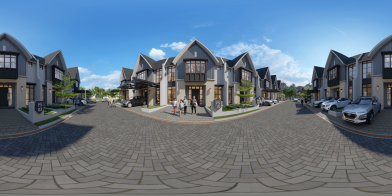
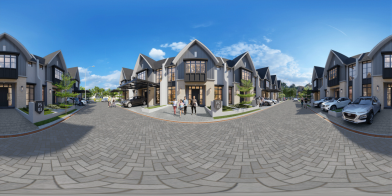
Final

diff --git a/index.htm b/index.htm
@@ -6,21 +6,21 @@
     <meta name="viewport" id="metaViewport" content="user-scalable=no, initial-scale=1, width=device-width, viewport-fit=cover" data-tdv-general-scale="0.5"/>
     <meta name="apple-mobile-web-app-capable" content="yes"/>
     <meta name="apple-mobile-web-app-status-bar-style" content="default">
-    <link rel="preload" href="locale/en.txt?v=1782319083495" as="fetch" crossorigin="anonymous"/>
-	<link rel="preload" href="script.js?v=1782319083495" as="script"/>
-	<link rel="preload" href="media/panorama_F68FEDBD_FA68_E6B2_41E4_5D80D335CD19_0/r/2/0_0.jpg?v=1782319083495" as="image"/>
-	<link rel="preload" href="media/panorama_F68FEDBD_FA68_E6B2_41E4_5D80D335CD19_0/l/2/0_0.jpg?v=1782319083495" as="image"/>
-	<link rel="preload" href="media/panorama_F68FEDBD_FA68_E6B2_41E4_5D80D335CD19_0/u/2/0_0.jpg?v=1782319083495" as="image"/>
-	<link rel="preload" href="media/panorama_F68FEDBD_FA68_E6B2_41E4_5D80D335CD19_0/d/2/0_0.jpg?v=1782319083495" as="image"/>
-	<link rel="preload" href="media/panorama_F68FEDBD_FA68_E6B2_41E4_5D80D335CD19_0/f/2/0_0.jpg?v=1782319083495" as="image"/>
-	<link rel="preload" href="media/panorama_F68FEDBD_FA68_E6B2_41E4_5D80D335CD19_0/b/2/0_0.jpg?v=1782319083495" as="image"/>
+    <link rel="preload" href="locale/en.txt?v=1782392542166" as="fetch" crossorigin="anonymous"/>
+	<link rel="preload" href="script.js?v=1782392542166" as="script"/>
+	<link rel="preload" href="media/panorama_F513F9A0_FEDC_C296_41E5_79FCDF9E5AB9_0/r/3/0_0.jpg?v=1782392542166" as="image"/>
+	<link rel="preload" href="media/panorama_F513F9A0_FEDC_C296_41E5_79FCDF9E5AB9_0/l/3/0_0.jpg?v=1782392542166" as="image"/>
+	<link rel="preload" href="media/panorama_F513F9A0_FEDC_C296_41E5_79FCDF9E5AB9_0/u/3/0_0.jpg?v=1782392542166" as="image"/>
+	<link rel="preload" href="media/panorama_F513F9A0_FEDC_C296_41E5_79FCDF9E5AB9_0/d/3/0_0.jpg?v=1782392542166" as="image"/>
+	<link rel="preload" href="media/panorama_F513F9A0_FEDC_C296_41E5_79FCDF9E5AB9_0/f/3/0_0.jpg?v=1782392542166" as="image"/>
+	<link rel="preload" href="media/panorama_F513F9A0_FEDC_C296_41E5_79FCDF9E5AB9_0/b/3/0_0.jpg?v=1782392542166" as="image"/>
 	<meta name="description" content="Virtual Tour"/>
 	<meta name="theme-color" content="#FFFFFF"/>
-    <script src="lib/tdvplayer.js?v=1782319083495"></script>
-    <script src="script.js?v=1782319083495"></script>
+    <script src="lib/tdvplayer.js?v=1782392542166"></script>
+    <script src="script.js?v=1782392542166"></script>
     <script type="text/javascript">
         var tour;
-        var devicesUrl = {"general":"script_general.js?v=1782319083495","ipad":"script_general.js?v=1782319083495"};
+        var devicesUrl = {"general":"script_general.js?v=1782392542166","ipad":"script_general.js?v=1782392542166"};
 
         (function()
         {
@@ -63,9 +63,9 @@
 
             var settings = new TDV.PlayerSettings();
             settings.set(TDV.PlayerSettings.CONTAINER, document.getElementById('viewer'));
-            settings.set(TDV.PlayerSettings.WEBVR_POLYFILL_URL, 'lib/WebVRPolyfill.js?v=1782319083495');
-            settings.set(TDV.PlayerSettings.HLS_URL, 'lib/Hls.js?v=1782319083495');
-            settings.set(TDV.PlayerSettings.QUERY_STRING_PARAMETERS, 'v=1782319083495');
+            settings.set(TDV.PlayerSettings.WEBVR_POLYFILL_URL, 'lib/WebVRPolyfill.js?v=1782392542166');
+            settings.set(TDV.PlayerSettings.HLS_URL, 'lib/Hls.js?v=1782392542166');
+            settings.set(TDV.PlayerSettings.QUERY_STRING_PARAMETERS, 'v=1782392542166');
 
             tour = new TDV.Tour(settings, devicesUrl);
             tour.bind(TDV.Tour.EVENT_TOUR_INITIALIZED, onVirtualTourInit);